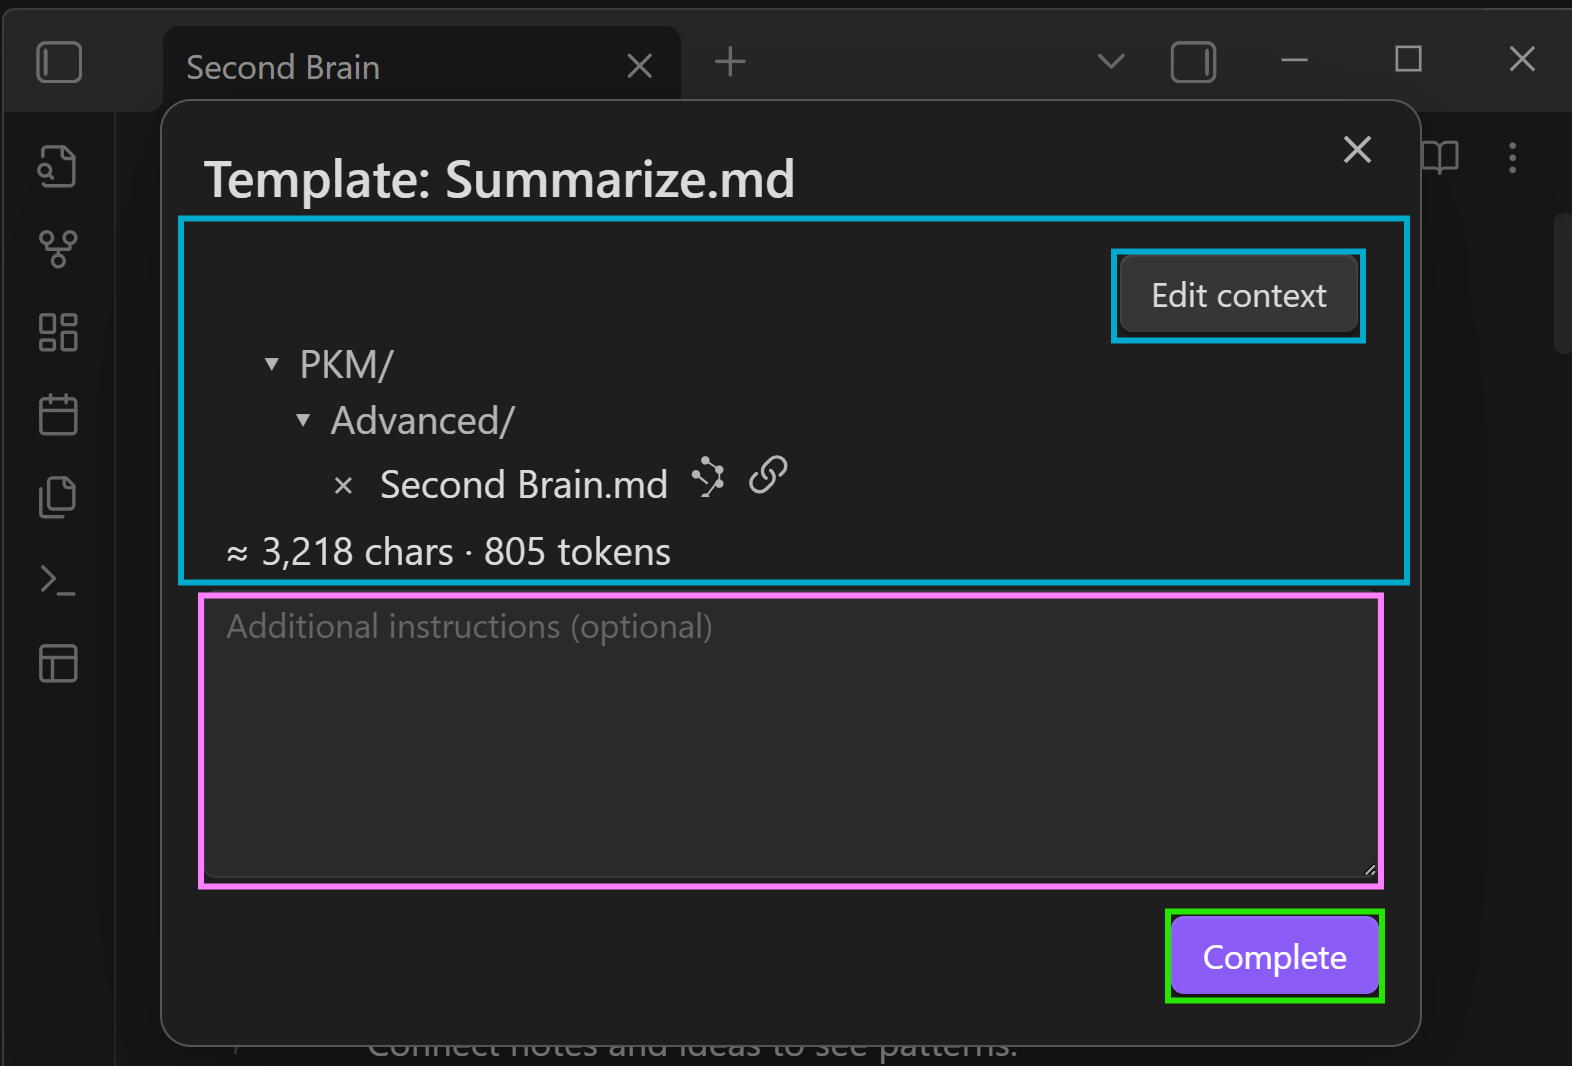
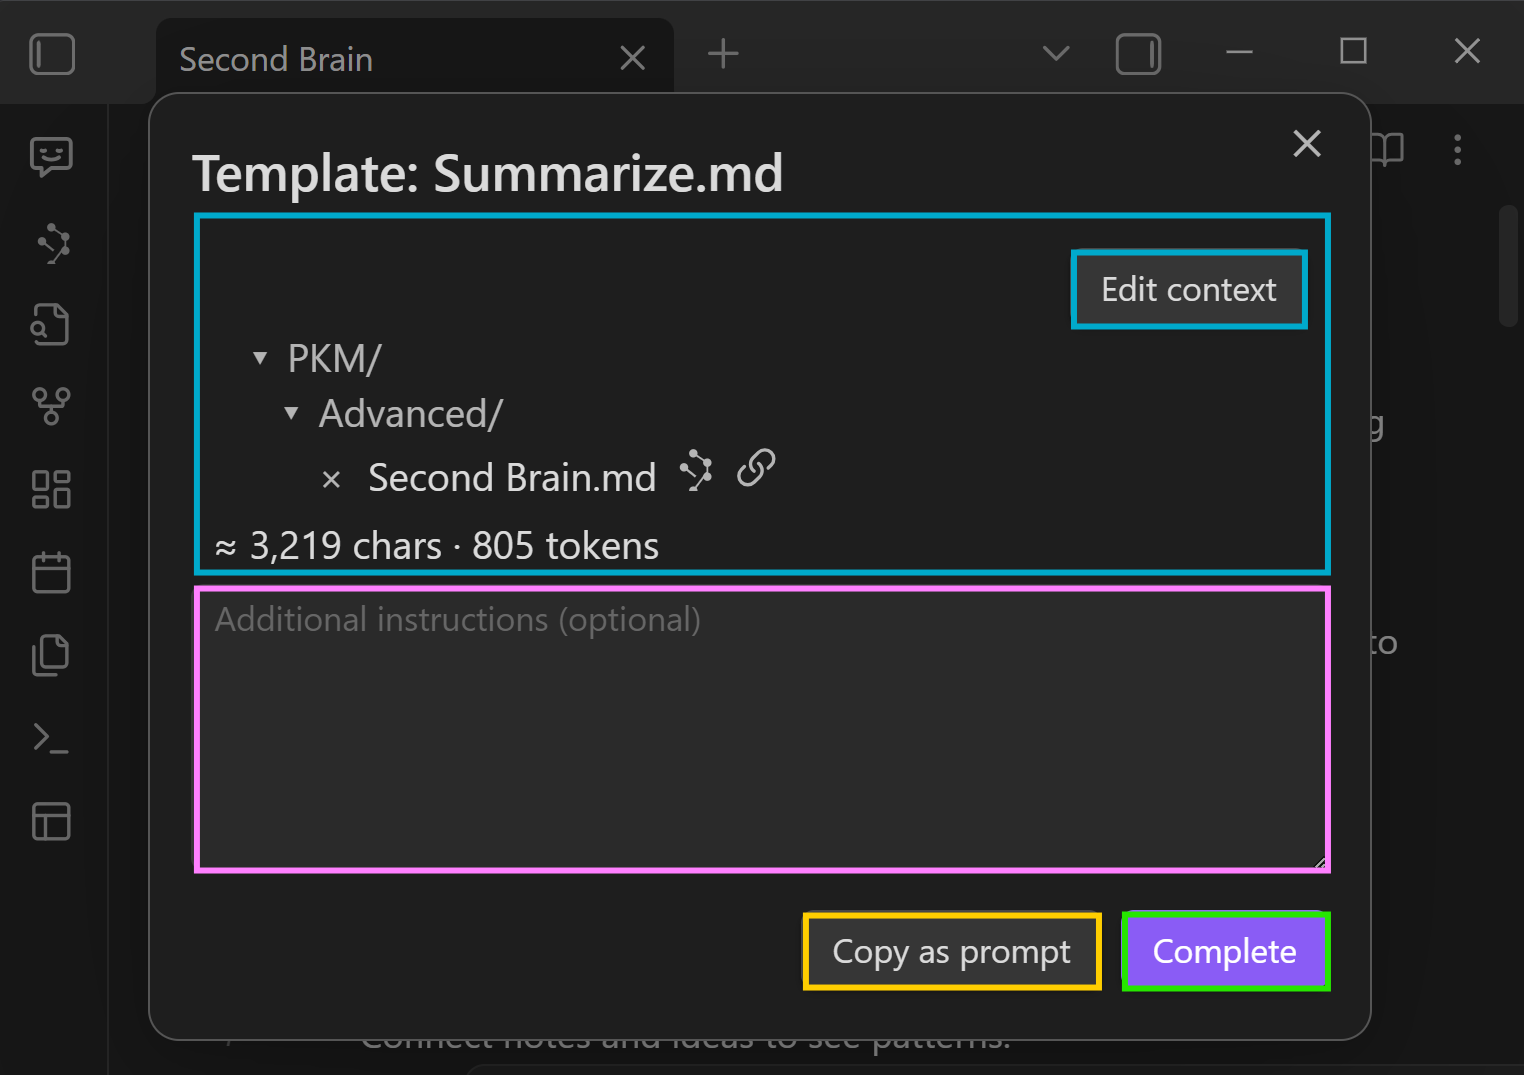
feat: Update README to clarify button functionalities and enhance user guidance

diff --git a/README.md b/README.md
@@ -48,7 +48,8 @@ All parsing, variable substitution, and AI prompting run locally. Your vault nev
 
 - **<span style="color:cyan;">Blue</span>**: Shows the currently selected context and **Edit context** button to open the [Smart Context](http://obsidian.md/plugins?id=smart-context) selector.
 - **<span style="color:magenta;">Pink</span>**: Free-form **Additional instructions** area.
-- **<span style="color:lime;">Green</span>**: **Complete** button begins streaming the template output.
+- **<span style="color:yellow;">Yellow</span>**: **Copy as prompt** button copies the context and template so they can be pasted into ChatGPT or other AI conversational interface.
+- **<span style="color:lime;">Green</span>**: **Complete** button begins streaming the template output configured chat model.
 
 ### Watch, insert, or copy
 ![Template review](./assets/Smart-Templates-v1-OP-template-review-modal-2025-06-29.png)
